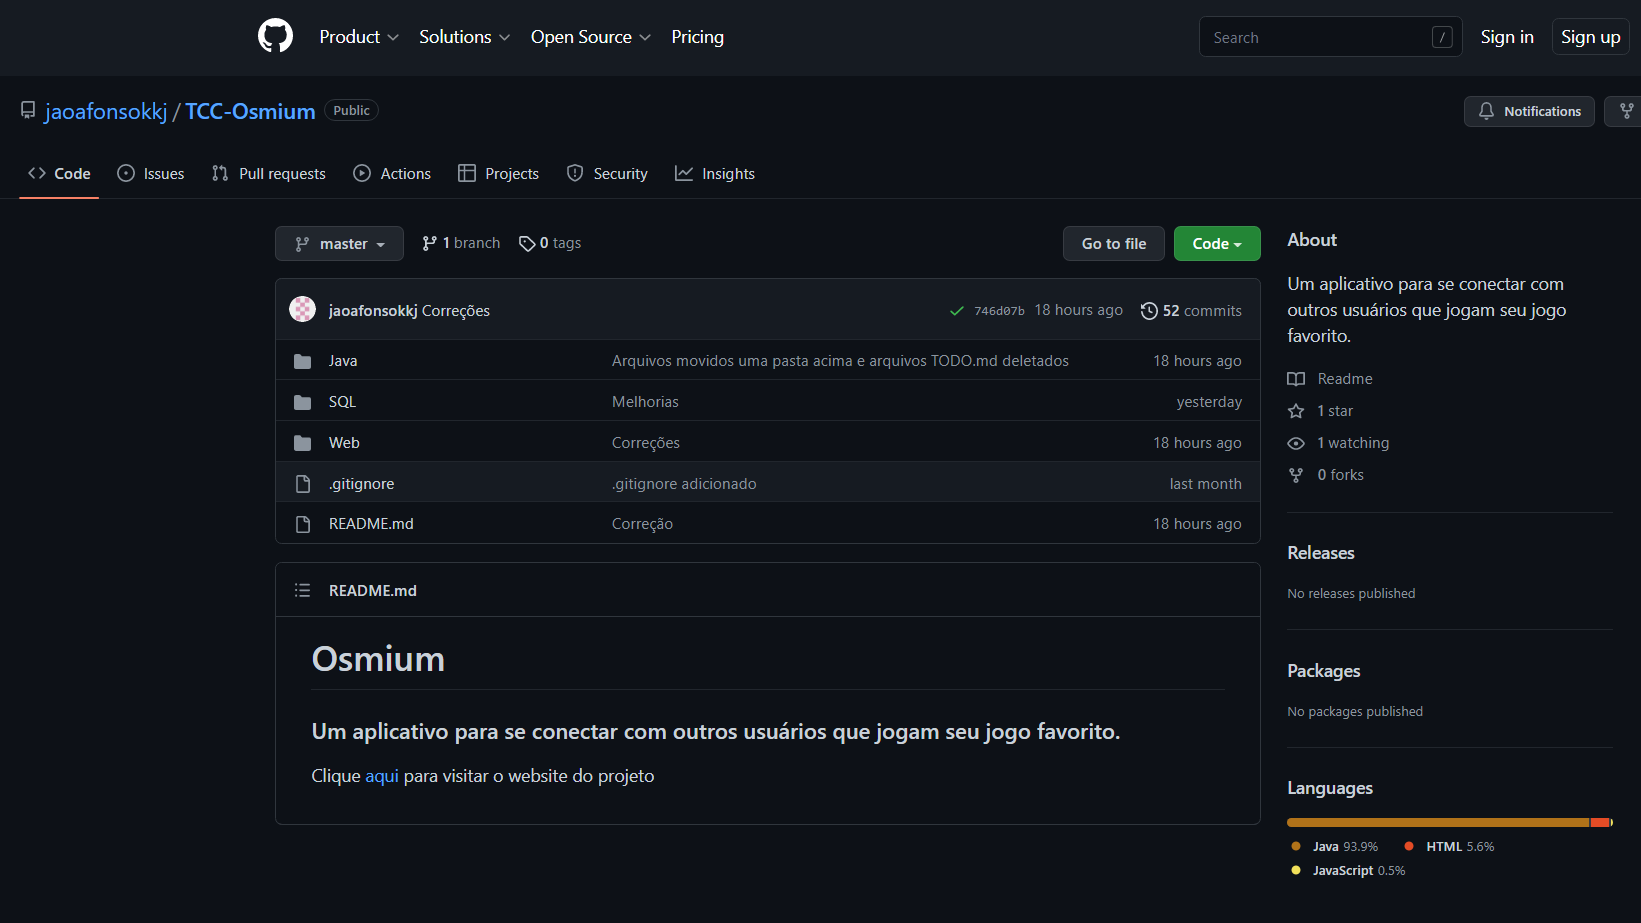
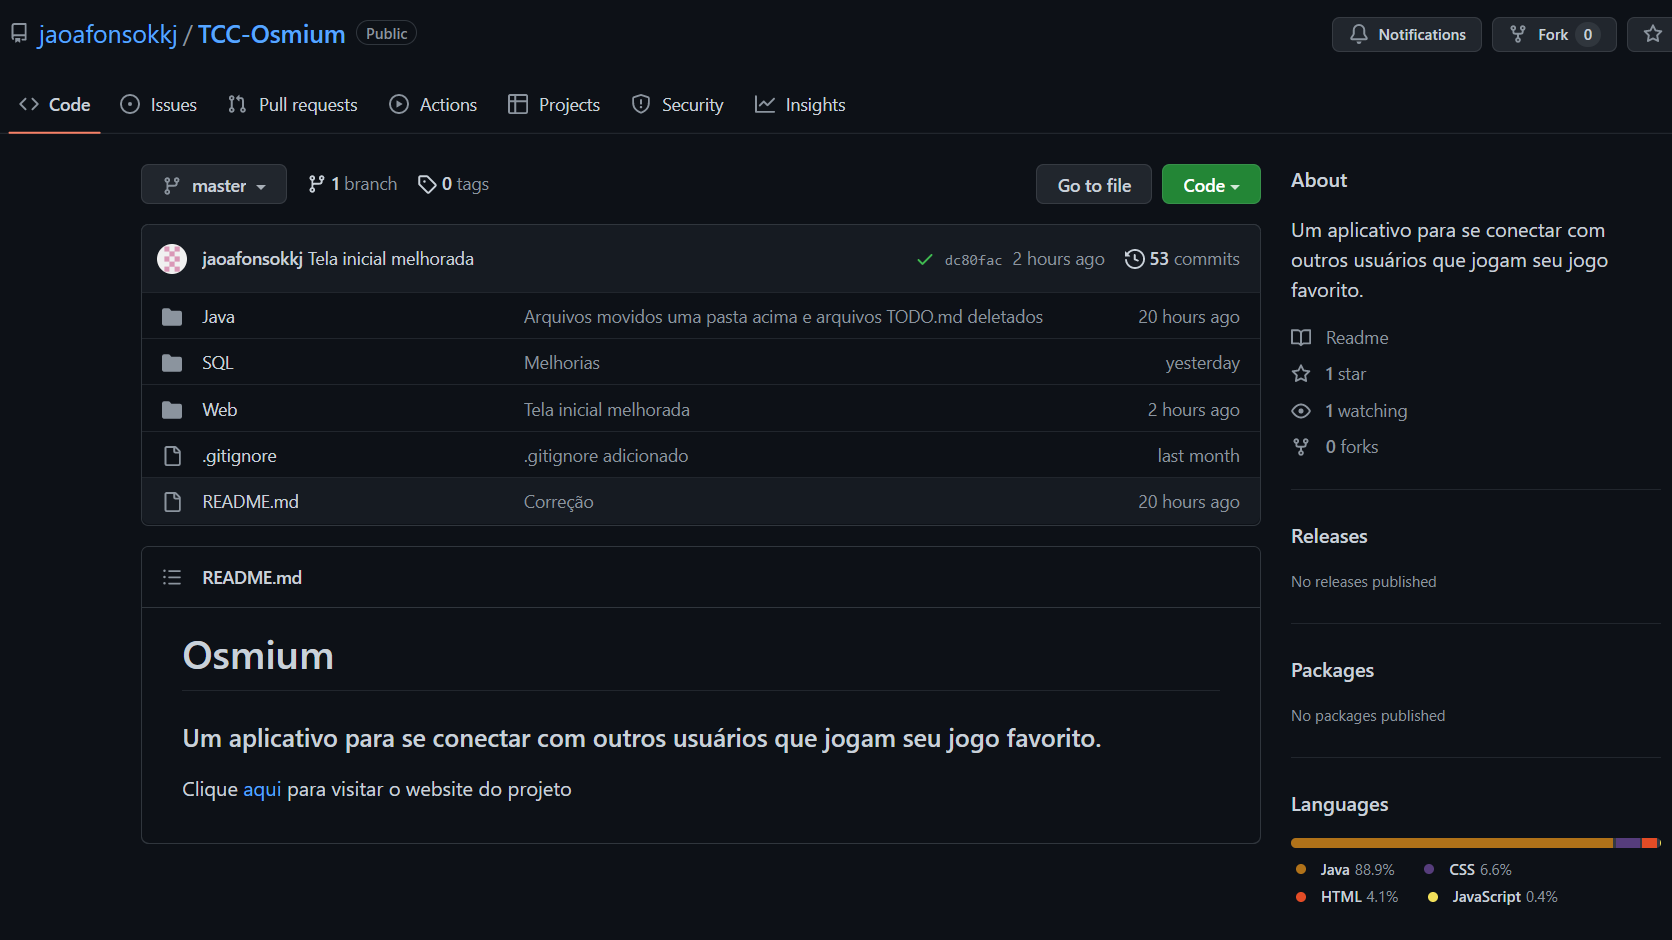
Melhorias

diff --git a/Web/index.html b/Web/index.html
@@ -1,78 +1,98 @@
 <!doctype html>
 <html lang="pt-BR">
-	<head>
-		<title>Osmium</title>
-		<link rel="icon" href="img/icon.png">
-		<script src="https://kit.fontawesome.com/aa667bfc10.js" crossorigin="anonymous"></script>
-		<link rel="stylesheet" href="https://cdn.jsdelivr.net/npm/bootstrap@4.0.0/dist/css/bootstrap.min.css" integrity="sha384-Gn5384xqQ1aoWXA+058RXPxPg6fy4IWvTNh0E263XmFcJlSAwiGgFAW/dAiS6JXm" crossorigin="anonymous">
-		<script src="https://code.jquery.com/jquery-3.2.1.slim.min.js" integrity="sha384-KJ3o2DKtIkvYIK3UENzmM7KCkRr/rE9/Qpg6aAZGJwFDMVNA/GpGFF93hXpG5KkN" crossorigin="anonymous"></script>
-		<script src="https://cdn.jsdelivr.net/npm/popper.js@1.12.9/dist/umd/popper.min.js" integrity="sha384-ApNbgh9B+Y1QKtv3Rn7W3mgPxhU9K/ScQsAP7hUibX39j7fakFPskvXusvfa0b4Q" crossorigin="anonymous"></script>
-		<script src="https://cdn.jsdelivr.net/npm/bootstrap@4.0.0/dist/js/bootstrap.min.js" integrity="sha384-JZR6Spejh4U02d8jOt6vLEHfe/JQGiRRSQQxSfFWpi1MquVdAyjUar5+76PVCmYl" crossorigin="anonymous"></script>
-		<script src="https://ajax.googleapis.com/ajax/libs/jquery/2.1.1/jquery.min.js"></script>
-		<script src="https://cdnjs.cloudflare.com/ajax/libs/jquery.mask/1.14.11/jquery.mask.min.js"></script>
-		
-		<link rel="stylesheet" href="css/scripts.css">
-		<meta charset="utf-8">
-		<meta name="viewport" content="width=device-width, initial-scale=1">
-		<meta name="description" content="TCC - Osmium">
-	</head>
 
-	<header>
-		
-		<nav class="navbar navbar-expand-lg navbar-dark" style="background-color:#0D1117; border-bottom: 5px solid #212529;">
-			<ul class="navbar-nav mr-auto dropdown">
-				<li class="nav-item dropdown">
-					<a class="nav-link active" href="#" id="navbarDropdownMenuLink" data-toggle="dropdown" aria-haspopup="true" aria-expanded="false">
-						<i class="fa-solid fa-bars fa-2x"></i>
-					</a>
-					<div class="dropdown-menu bg-dark" aria-labelledby="navbarDropdownMenuLink">
-						<a class="dropdown-item text-white" href="javascript:void(0);" onclick='irPara("home.html", 1)'>Início</a>
-						<a class="dropdown-item text-white" href="javascript:void(0);" onclick='irPara("sobre.html", 2);'>Sobre</a>
-						<a class="dropdown-item text-white" href="javascript:void(0);" onclick='irPara("contato.html", 3);'>Contato</a>
-						<a class="dropdown-item text-white" href="javascript:void(0);" onclick='irPara("atualizacoes.html", 4);'>Atualizações</a>
-						<a class="dropdown-item text-white" href="javascript:void(0);" onclick='irPara("equipe.html", 5);'>Equipe</a>
-					</div>
+<head>
+	<title>Osmium</title>
+	<link rel="icon" href="img/icon.png">
+	<script src="https://kit.fontawesome.com/aa667bfc10.js" crossorigin="anonymous"></script>
+	<link rel="stylesheet" href="https://cdn.jsdelivr.net/npm/bootstrap@4.0.0/dist/css/bootstrap.min.css"
+		integrity="sha384-Gn5384xqQ1aoWXA+058RXPxPg6fy4IWvTNh0E263XmFcJlSAwiGgFAW/dAiS6JXm" crossorigin="anonymous">
+	<script src="https://code.jquery.com/jquery-3.2.1.slim.min.js"
+		integrity="sha384-KJ3o2DKtIkvYIK3UENzmM7KCkRr/rE9/Qpg6aAZGJwFDMVNA/GpGFF93hXpG5KkN"
+		crossorigin="anonymous"></script>
+	<script src="https://cdn.jsdelivr.net/npm/popper.js@1.12.9/dist/umd/popper.min.js"
+		integrity="sha384-ApNbgh9B+Y1QKtv3Rn7W3mgPxhU9K/ScQsAP7hUibX39j7fakFPskvXusvfa0b4Q"
+		crossorigin="anonymous"></script>
+	<script src="https://cdn.jsdelivr.net/npm/bootstrap@4.0.0/dist/js/bootstrap.min.js"
+		integrity="sha384-JZR6Spejh4U02d8jOt6vLEHfe/JQGiRRSQQxSfFWpi1MquVdAyjUar5+76PVCmYl"
+		crossorigin="anonymous"></script>
+	<script src="https://ajax.googleapis.com/ajax/libs/jquery/2.1.1/jquery.min.js"></script>
+	<script src="https://cdnjs.cloudflare.com/ajax/libs/jquery.mask/1.14.11/jquery.mask.min.js"></script>
+
+	<link rel="stylesheet" href="css/scripts.css">
+	<meta charset="utf-8">
+	<meta name="viewport" content="width=device-width, initial-scale=1">
+	<meta name="description" content="TCC - Osmium">
+</head>
+
+<header>
+
+	<nav class="navbar navbar-expand-lg navbar-dark"
+		style="background-color:#0D1117; border-bottom: 5px solid #212529;">
+		<ul class="navbar-nav mr-auto dropdown">
+			<li class="nav-item dropdown">
+				<a class="nav-link active" href="#" id="navbarDropdownMenuLink" data-toggle="dropdown"
+					aria-haspopup="true" aria-expanded="false">
+					<i class="fa-solid fa-bars fa-2x"></i>
+				</a>
+				<div class="dropdown-menu bg-dark" aria-labelledby="navbarDropdownMenuLink">
+					<a class="dropdown-item text-white" href="javascript:void(0);"
+						onclick='irPara("home.html", 1)'>Início</a>
+					<a class="dropdown-item text-white" href="javascript:void(0);"
+						onclick='irPara("sobre.html", 2);'>Sobre</a>
+					<a class="dropdown-item text-white" href="javascript:void(0);"
+						onclick='irPara("contato.html", 3);'>Contato</a>
+					<a class="dropdown-item text-white" href="javascript:void(0);"
+						onclick='irPara("atualizacoes.html", 4);'>Atualizações</a>
+					<a class="dropdown-item text-white" href="javascript:void(0);"
+						onclick='irPara("equipe.html", 5);'>Equipe</a>
+				</div>
+			</li>
+		</ul>
+		<a class="navbar-brand" href="javascript:void(0);" onclick='irPara("home.html", 1)'
+			style="margin-left: 20px;"><img src="img/final-logo.png" style="width:35px"></a>
+		<div class="collapse navbar-collapse" id="navbarSupportedContent">
+			<ul class="navbar-nav mr-auto" rel="stylesheet" href="styles.css">
+				<li class="navdiv nav-item active">
+					<a class="nav-link" href="javascript:void(0);" onclick='irPara("home.html", 1)'>Início</a>
+				</li>
+				<li class="navdiv nav-item active">
+					<a class="nav-link" href="javascript:void(0);" onclick='irPara("sobre.html", 2)'>Sobre</a>
+				</li>
+				<li class="navdiv nav-item active">
+					<a class="nav-link" href="javascript:void(0);" onclick='irPara("contato.html", 3)'>Contato</a>
+				</li>
+				<li class="navdiv nav-item active">
+					<a class="nav-link" href="javascript:void(0);"
+						onclick='irPara("atualizacoes.html", 4)'>Atualizações</a>
+				</li>
+				<li class="navdiv nav-item active">
+					<a class="nav-link" href="javascript:void(0);" onclick='irPara("equipe.html", 5)'>Equipe</a>
 				</li>
 			</ul>
-			<a class="navbar-brand" href="javascript:void(0);" onclick='irPara("home.html", 1)' style="margin-left: 20px;"><img src="img/final-logo.png" style="width:35px"></a>	
-			<div class="collapse navbar-collapse" id="navbarSupportedContent">
-				<ul class="navbar-nav mr-auto" rel="stylesheet" href="styles.css">
-					<li class="navdiv nav-item active">
-						<a class="nav-link" href="javascript:void(0);" onclick='irPara("home.html", 1)'>Início</a>
-					</li>
-					<li class="navdiv nav-item active">
-						<a class="nav-link" href="javascript:void(0);" onclick='irPara("sobre.html", 2)'>Sobre</a>
-					</li>
-					<li class="navdiv nav-item active">
-						<a class="nav-link" href="javascript:void(0);" onclick='irPara("contato.html", 3)'>Contato</a>
-					</li>
-					<li class="navdiv nav-item active">
-						<a class="nav-link" href="javascript:void(0);" onclick='irPara("atualizacoes.html", 4)'>Atualizações</a>
-					</li>
-					<li class="navdiv nav-item active">
-						<a class="nav-link" href="javascript:void(0);" onclick='irPara("equipe.html", 5)'>Equipe</a>
-					</li>
-				</ul>
-			</div>
-			<div class="float-right" style="margin-right:10px">
-				<button type="button" class="btn btn-light" onclick="lastPage()"><i class="fa-solid fa-arrow-left"></i></button>
-			</div>
-			<div class="float-right">
-				<button type="button" class="btn btn-light" onclick="nextPage()"><i class="fa-solid fa-arrow-right"></i></button>
-			</div>
-			
-		</nav>
-	</header>
+		</div>
+		<div class="float-right" style="margin-right:10px">
+			<button type="button" class="btn btn-light" onclick="lastPage()"><i
+					class="fa-solid fa-arrow-left"></i></button>
+		</div>
+		<div class="float-right">
+			<button type="button" class="btn btn-light" onclick="nextPage()"><i
+					class="fa-solid fa-arrow-right"></i></button>
+		</div>
+
+	</nav>
+</header>
 
 <body style="background-color: #121212;">
-    <div id = "pagina"></div>
+	<div id="pagina"></div>
 </body>
 
 <footer style="position: fixed; bottom: 0; width: 100%;">
-	<div class="align-bottom" style="padding: 6px 16px; color: white; background-color:#0D1117; border-top: 5px solid #212529; text-align: center;">
-        <h5 id="paginas"></h5>
-    </div>
-    <script src="js/scripts.js"></script>
+	<div class="align-bottom"
+		style="padding: 6px 16px; color: white; background-color:#0D1117; border-top: 5px solid #212529; text-align: center;">
+		<h5 id="paginas"></h5>
+	</div>
+	<script src="js/scripts.js"></script>
 </footer>
 
 </html>

diff --git a/Web/home.html b/Web/home.html
@@ -1,5 +1,4 @@
 <body>
-
 	<div class="w3-content" style="max-width:1400px; color: white">
 
 		<header class="w3-container w3-center w3-padding-32">
@@ -24,7 +23,8 @@
 							diam non fringilla.</p>
 						<div class="w3-row">
 							<div class="w3-col m8 s12">
-								<p><a class="w3-padding-large btn btn-primary" onclick='irPara("sobre.html", 2)'><b>Ver Mais ></b></a></p>
+								<p><a class="w3-padding-large btn btn-primary" onclick='irPara("sobre.html", 2)'><b>Ver
+											Mais ></b></a></p>
 							</div>
 						</div>
 					</div>
@@ -45,7 +45,8 @@
 							diam non fringilla.</p>
 						<div class="w3-row">
 							<div class="w3-col m8 s12">
-								<p><a class="w3-padding-large btn btn-primary" onclick='irPara("sobre.html", 2)'><b>Ver Mais ></b></a></p>
+								<p><a class="w3-padding-large btn btn-primary" onclick='irPara("sobre.html", 2)'><b>Ver
+											Mais ></b></a></p>
 							</div>
 						</div>
 					</div>
@@ -99,16 +100,16 @@
 						<h4>contato</h4>
 					</div>
 					<div style="background-color: #0D1117; border: 5px solid #212529;">
-							<div class="col-md-1.5 text-center" style="margin-top: 20px;">
+						<div class="col-md-1.5 text-center" style="margin-top: 20px;">
 							<ul style="list-style-type: none; margin-bottom: 20px; padding-right: 10%">
 								<li><i class="fas fa-map-marker-alt fa-2x"></i>
 									<p>Paraná, Brasil</p>
 								</li>
-		
+
 								<li><i class="fa fa-phone mt-4 fa-2x"></i>
 									<p>+55 43 99905-5171</p>
 								</li>
-		
+
 								<li><i class="fa fa-envelope mt-4 fa-2x"></i>
 									<p>cttosmium@gmail.com</p>
 								</li>
@@ -116,16 +117,13 @@
 						</div>
 					</div>
 				</div>
-
 			</div>
-
 		</div>
-
 	</div>
 
-	<footer class="w3-container w3-padding-32" style="margin-bottom: 3%;">
-		<center><button class="btn btn-primary w3-padding-large w3-margin-bottom" onclick='irPara("sobre.html", 2)'>Ver Mais ></button>
-			<center>
-	</footer>
-
+	<div class="w3-container w3-padding-32" style="margin-bottom: 3%;">
+		<center><button class="btn btn-primary w3-padding-large w3-margin-bottom" onclick='irPara("sobre.html", 2)'>Ver
+				Mais ></button>
+		</center>
+	</div>
 </body>

diff --git a/Web/contato.html b/Web/contato.html
@@ -1,5 +1,5 @@
 <body>
-    <div style="width:50%; background-color: #0D1117; border: 5px solid #212529; margin: 6.7% 25% 6.7% 25%;">
+    <div class="w3-content" style="background-color: #0D1117; border: 5px solid #212529; margin-top: 6.75%; margin-bottom: 10%;">
         <section class="mb-4" style="padding: 30px 30px 0px 30px; color:white;">
             <h2 class="h1-responsive font-weight-bold text-center my-4">Fale Conosco!</h2>
             <p class="text-center w-responsive mx-auto mb-5">Você tem alguma duvida? Por favor nos contate diretamente.
@@ -49,8 +49,8 @@
                     </form>
                 </div>
 
-                <div class="col-md-1.5 text-center" style="margin-left: 0px; margin-top: 20px;">
-                    <ul style="list-style-type: none; margin-bottom: 60px">
+                <div class="w3-content col-md-1.5 text-center" style="margin-top: 20px;">
+                    <ul style="list-style-type: none; margin-bottom: 60px;">
                         <li><i class="fas fa-map-marker-alt fa-2x"></i>
                             <p>Paraná, Brasil</p>
                         </li>
@@ -64,6 +64,7 @@
                         </li>
                     </ul>
                 </div>
+                <div style="width: 40px;"></div>
             </div>
         </section>
     </div>
